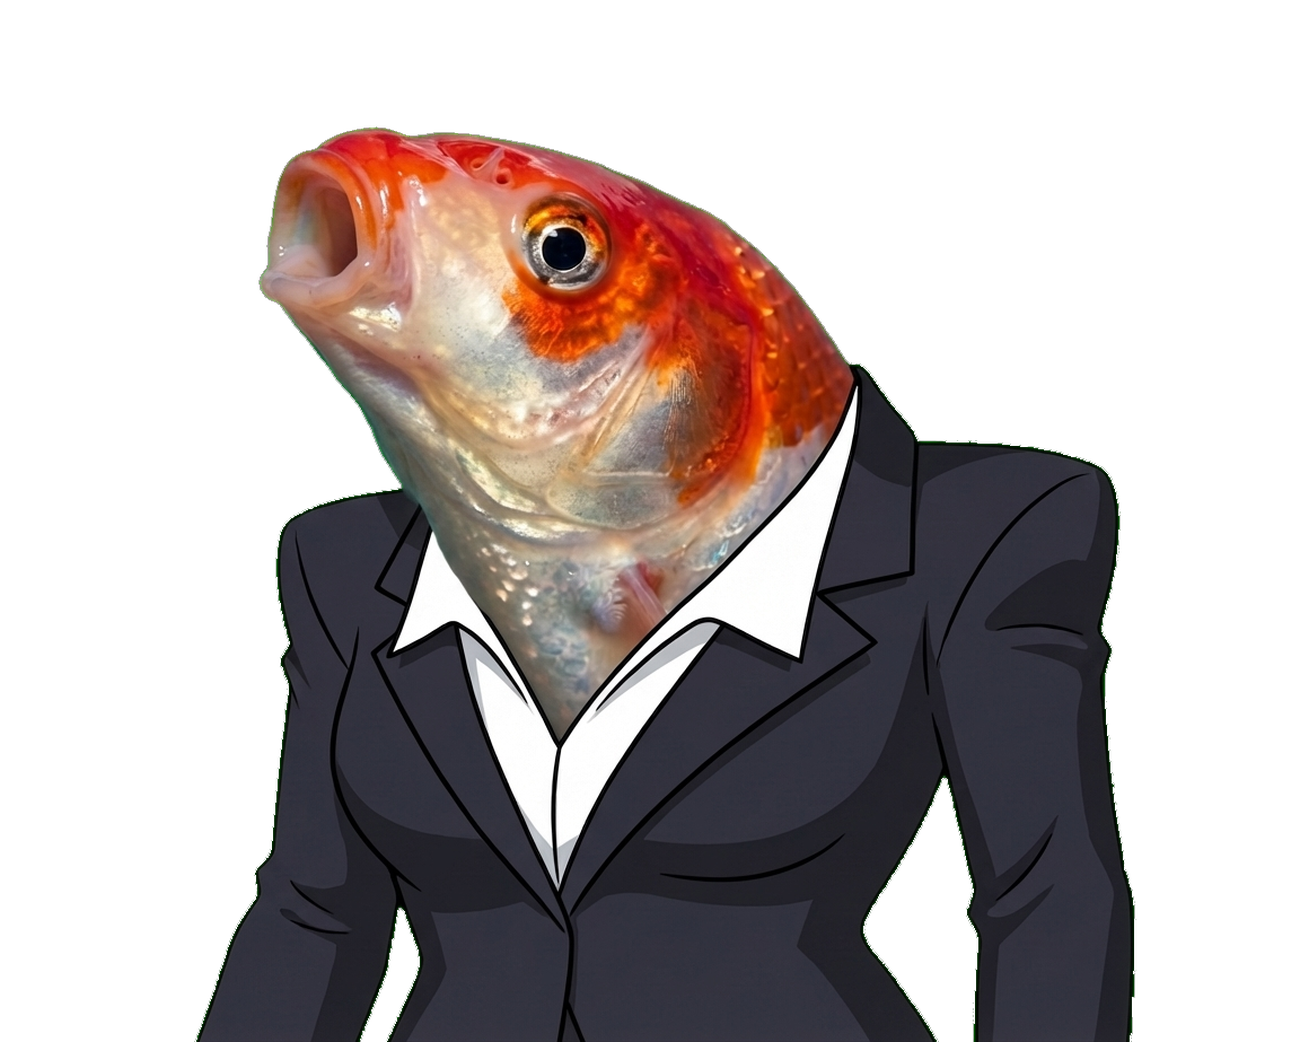
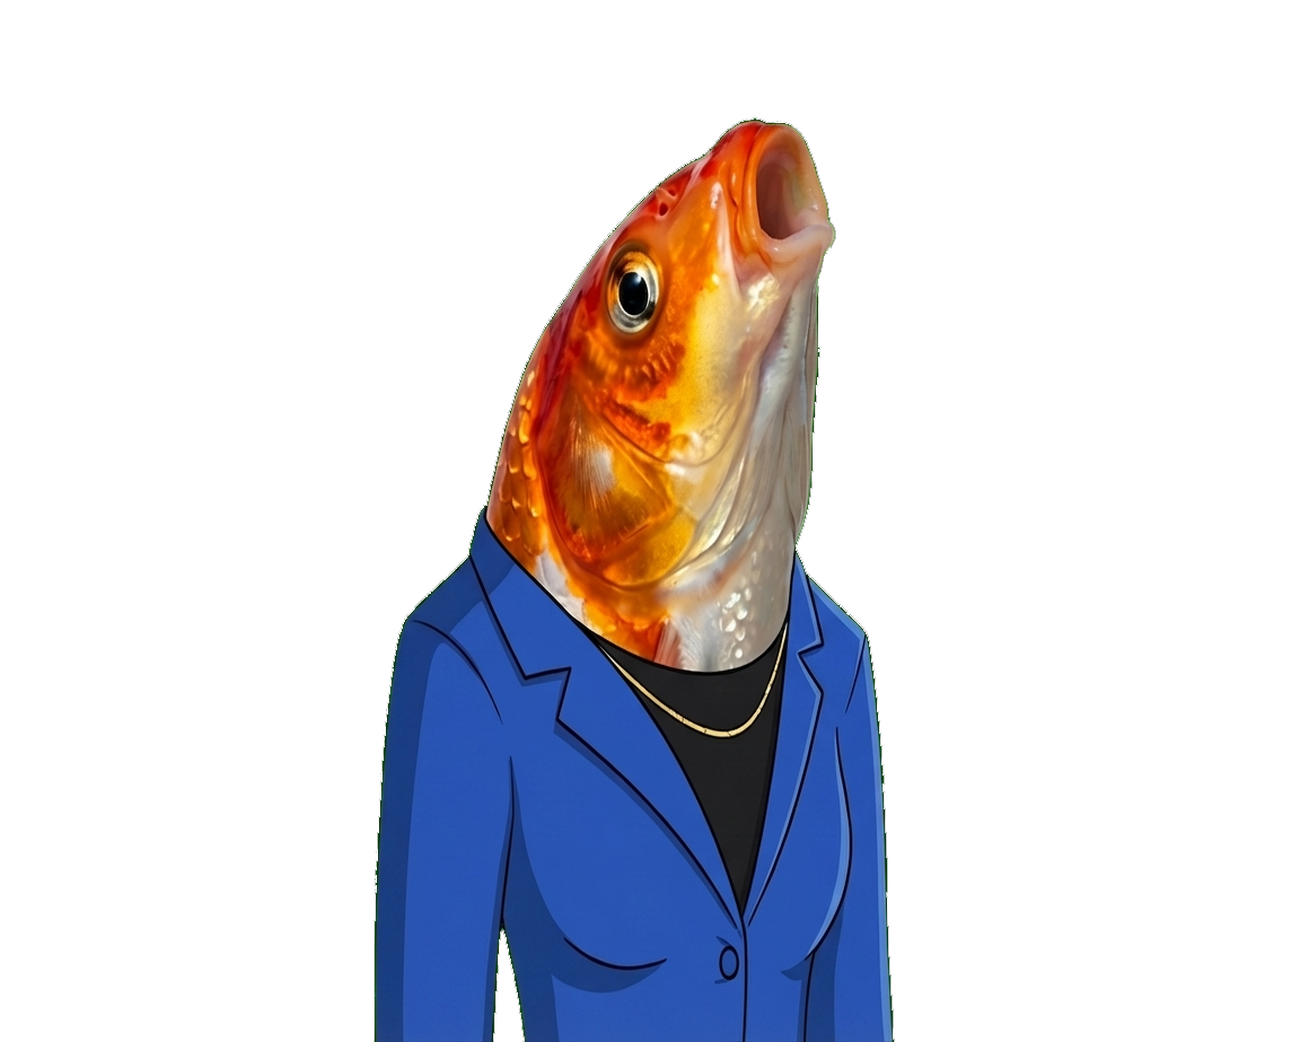
Redesign koi anchor: vibrant fish head, compact proportions, direction consistency
- Overhaul BASE_PROMPT: big head (55-60% height), short bust-only body,
  vibrant golden-orange koi coloring, cobalt blue blazer, side profile
  facing left with mouth pointing up
- Add _ensure_consistent_direction() post-processing to detect and flip
  frames where Gemini reverses the fish facing direction
- Add _find_eye_side() helper using darkest-pixel clustering to determine
  which side the eye is on for each frame
- Use @PufferNews screenshot as Gemini reference image for proportions
- Strengthen frame-chaining instructions to prevent direction drift
- Regenerate all 6 mouth frames with new design
- Update AGENTS.md with settled character design details

Made-with: Cursor

diff --git a/scripts/generate_pufferfish_anchor.py b/scripts/generate_pufferfish_anchor.py
@@ -35,30 +35,42 @@ MOUTH_STATES = {
 }
 
 BASE_PROMPT = (
-    "A SINGLE koi fish (錦鯉) news anchor character shown from a 3/4 SIDE "
-    "PROFILE VIEW — facing LEFT, head angled slightly UPWARD with confident "
-    "poise, like a classic TV news anchor. NOT front-facing, NOT head-on. "
-    "The composition matches the SpongeBob 'Realistic Fish Head' news anchor "
-    "framing: 3/4 profile, one eye visible, head tilted up with authority. "
-    "The mouth is on the SIDE of the face and opens outward to the LEFT — "
-    "the jaw drops DOWN and OUT in profile, like a fish opening its mouth "
-    "naturally when seen from the side. "
+    "Generate ONLY a SINGLE koi fish (錦鯉) news anchor character — do NOT "
+    "include the reference image in the output, do NOT place two figures "
+    "side by side. Output ONE character CENTERED in the frame. "
+    "The fish head is shown in SIDE PROFILE — only ONE eye visible, facing "
+    "LEFT. The head is tilted FAR BACK so the mouth points STRAIGHT UP "
+    "toward the ceiling / sky — like a fish looking directly upward. The "
+    "mouth is at the VERY TOP of the composition. This exaggerated upward "
+    "tilt gives the character a deadpan serious-but-absurd news anchor vibe. "
+    "PROPORTIONS — THIS IS CRITICAL: The fish HEAD is HUGE — it takes up "
+    "55-60% of the total character height. The body below is VERY SHORT — "
+    "ONLY the shoulders and upper chest are visible, like a bust or a "
+    "news anchor behind a desk. Do NOT draw the waist, hips, or lower "
+    "torso. The body is just a SHORT WIDE STUMP of shoulders + upper chest. "
+    "The shoulders are BROAD, filling about 55-60% of the frame width. The overall "
+    "silhouette is TOP-HEAVY and COMPACT — a big lively fish head sitting "
+    "on a short squat pair of broad shoulders. Think of the SpongeBob "
+    "'Realistic Fish Head' news anchor proportions. "
     "CRITICAL — the koi fish HEAD must look like a REAL PHOTOGRAPH of a "
-    "living koi fish. PHOTOREALISTIC, not illustrated, not painterly, not "
-    "digital art. Render the head as if shot with a macro lens: real wet "
-    "skin texture, real iridescent scales with light reflections, a real "
-    "glossy fish eye with depth and specular highlight, visible pores and "
-    "fine detail on the skin. The coloring is vivid red-orange and white "
-    "with natural gradients between the patches. Think National Geographic "
-    "close-up photo of a koi fish, not a painting or illustration of one. "
-    "NO makeup, NO blush, NO eyelashes, NO jewelry — the femininity comes "
-    "entirely from the SUIT silhouette and the confident upward pose. "
-    "The SUIT is 2D flat cartoon style — a sharp, structured POWER BLAZER "
-    "in deep charcoal or dark navy. The blazer has STRONG PADDED SHOULDERS, "
-    "a nipped waist, and sharp peaked lapels — a commanding boardroom / CNN "
-    "anchor silhouette. Underneath is a crisp white silk blouse with an "
-    "open neckline — NO necktie, NO bowtie. The open collar conveys "
-    "confident authority. This is a female power-boss look. "
+    "GORGEOUS, VIBRANT, SHOW-QUALITY koi fish. PHOTOREALISTIC, not "
+    "illustrated, not painterly, not digital art. The coloring must be "
+    "RICH and SATURATED — deep warm GOLDEN-ORANGE and fiery RED-ORANGE "
+    "patches with clean bright PEARL-WHITE areas. NOT pale, NOT washed "
+    "out, NOT pinkish-grey. The orange should POP — think a prize-winning "
+    "Kohaku koi in crystal-clear water under sunlight. The scales should "
+    "SHIMMER with iridescent light reflections. The eye must look BRIGHT, "
+    "ALERT, and full of LIFE — a glossy jet-black pupil with a sharp "
+    "specular highlight, giving the fish PERSONALITY and charm. The skin "
+    "has a healthy wet SHEEN. Overall the fish should look ALIVE, VIBRANT, "
+    "and BEAUTIFUL — the kind of fish that makes people stop scrolling. "
+    "NO makeup, NO blush, NO eyelashes, NO humanization — just a "
+    "stunningly beautiful living koi. "
+    "The OUTFIT is 2D flat cartoon style — a modern WOMEN'S fitted blazer "
+    "in COBALT BLUE (vivid saturated blue, NOT grey, NOT muted). The blazer "
+    "is sleek and contemporary: clean lines, slim fit, single-button closure, "
+    "structured but NOT boxy. Underneath is a simple black round-neck top. "
+    "A thin delicate gold chain necklace adds a modern feminine accent. "
     "Drawn with solid flat colors, clean outlines, and minimal shading. "
     "NO fabric texture, NO realistic folds, NO painterly brushwork on the suit "
     "— just clean, simple, flat 2D shapes with solid colors. "
@@ -67,15 +79,45 @@ BASE_PROMPT = (
     "styles together. "
     "The background MUST be a single solid bright green (#00FF00) color — "
     "NO checkerboard, NO gradient, NO pattern, just pure flat green. "
-    "IMPORTANT: ONE character only, 3/4 SIDE PROFILE facing LEFT. Keep the "
-    "body, suit, eyes, and overall composition IDENTICAL across all frames — "
-    "only the mouth opening on the SIDE changes."
+    "IMPORTANT: ONE character ONLY, CENTERED, BIG HEAD on SHORT WIDE body, "
+    "side-profile fish head with mouth UP, ALWAYS facing LEFT (eye on the "
+    "RIGHT side of the image). The fish must face the SAME direction in "
+    "EVERY frame — NEVER mirror or flip. Keep the body, suit, and overall "
+    "composition IDENTICAL across all frames — only the mouth opening changes."
 )
 
 
 def _load_image_bytes(path: Path) -> bytes:
     with open(path, "rb") as f:
         return f.read()
+
+
+def _crop_right_subject(img: Image.Image) -> Image.Image:
+    """Remove reference-image bleed on the left if present, then center the subject.
+
+    Only crops the left portion if it detects a non-green-screen region there
+    (the Gemini reference photo leak). If the left side is clean green-screen,
+    the full image is preserved so we don't cut off the character's shoulders.
+    """
+    import numpy as np
+
+    arr = np.array(img.convert("RGBA"))
+    h, w = arr.shape[:2]
+    r, g, b = arr[:, :, 0].astype(float), arr[:, :, 1].astype(float), arr[:, :, 2].astype(float)
+
+    green_bg = (g > 180) & (r < 180) & (b < 180) & (g > r + 30) & (g > b + 30)
+
+    left_strip = green_bg[:, :int(w * 0.15)]
+    left_green_ratio = left_strip.sum() / max(left_strip.size, 1)
+
+    if left_green_ratio < 0.4:
+        crop_x = int(w * 0.35)
+        print(f"    Detected reference bleed on left ({left_green_ratio:.0%} green), cropping left {crop_x}px")
+        arr = arr[:, crop_x:]
+    else:
+        print(f"    Left side is clean green-screen ({left_green_ratio:.0%} green), no crop needed")
+
+    return Image.fromarray(arr, "RGBA")
 
 
 def _remove_green_screen(img: Image.Image, tolerance: int = 80) -> Image.Image:
@@ -121,6 +163,63 @@ def _make_reference_part(img_bytes: bytes, mime: str = "image/png") -> types.Par
     return types.Part.from_bytes(data=img_bytes, mime_type=mime)
 
 
+def _find_eye_side(img: Image.Image) -> str:
+    """Determine which side of the image the fish eye is on.
+
+    Looks for the darkest pixel cluster in the upper 60% of the image
+    (where the head is). Returns 'left' or 'right'.
+    """
+    import numpy as np
+
+    arr = np.array(img.convert("RGBA"))
+    h, w = arr.shape[:2]
+    upper = arr[:int(h * 0.6), :, :]
+
+    alpha = upper[:, :, 3]
+    has_content = alpha > 30
+
+    r, g, b = upper[:, :, 0].astype(float), upper[:, :, 1].astype(float), upper[:, :, 2].astype(float)
+    darkness = 255 * 3 - (r + g + b)
+    darkness[~has_content] = 0
+
+    threshold = np.percentile(darkness[has_content], 95) if has_content.any() else 500
+    dark_pixels = (darkness >= threshold) & has_content
+
+    if not dark_pixels.any():
+        return "left"
+
+    dark_xs = np.where(dark_pixels)[1]
+    content_xs = np.where(has_content)[1]
+    if len(content_xs) == 0:
+        return "left"
+
+    content_center = (content_xs.min() + content_xs.max()) / 2
+    avg_dark_x = dark_xs.mean()
+
+    return "left" if avg_dark_x < content_center else "right"
+
+
+def _ensure_consistent_direction(frames: dict[int, Image.Image]) -> dict[int, Image.Image]:
+    """Flip any frames whose eye is on the opposite side from mouth_0."""
+    if 0 not in frames:
+        return frames
+
+    ref_side = _find_eye_side(frames[0])
+    print(f"\n  mouth_0 eye detected on: {ref_side}")
+
+    for idx in sorted(frames.keys()):
+        if idx == 0:
+            continue
+        side = _find_eye_side(frames[idx])
+        if side != ref_side:
+            print(f"  mouth_{idx} eye on {side} (expected {ref_side}) — flipping horizontally")
+            frames[idx] = frames[idx].transpose(Image.FLIP_LEFT_RIGHT)
+        else:
+            print(f"  mouth_{idx} eye on {side} — consistent, no flip needed")
+
+    return frames
+
+
 def backup_existing_assets():
     """Copy current mouth frames to a backup directory."""
     if BACKUP_DIR.exists():
@@ -144,7 +243,7 @@ def generate_mouth_frames():
 
     client = genai.Client(api_key=api_key)
 
-    ref_fish_bytes = _load_image_bytes(MOUTH_DIR / "mouth_backup_fish" / "mouth_0.png")
+    ref_fish_bytes = _load_image_bytes(Path(__file__).parent / "puffernews_reference.png")
     ref_fish_part = _make_reference_part(ref_fish_bytes)
 
     generated_frames: dict[int, Image.Image] = {}
@@ -161,7 +260,7 @@ def generate_mouth_frames():
 
         content_parts.append(
             types.Part.from_text(
-                text="Reference image (original fish anchor — match this 3/4 SIDE PROFILE pose and news-anchor framing but use a KOI FISH with a female power-boss suit):"
+                text="Reference image for PROPORTIONS and STYLE ONLY — match this character's BIG HEAD, SHORT WIDE BODY proportions and vibrant fish coloring. Generate a NEW koi fish character with cobalt blue blazer, side-profile head with mouth pointing UP. Do NOT copy the background, desk, or text from this reference:"
             )
         )
         content_parts.append(ref_fish_part)
@@ -172,7 +271,7 @@ def generate_mouth_frames():
             mouth0_bytes = mouth0_buf.getvalue()
             content_parts.append(
                 types.Part.from_text(
-                    text="Generated koi fish mouth_0 (closed, side profile) — keep the character IDENTICAL, only change the mouth opening on the side:"
+                    text="This is mouth_0 (closed). Generate the EXACT SAME character facing the EXACT SAME direction (LEFT) with the IDENTICAL body, suit, and pose — ONLY change the mouth opening. Do NOT mirror or flip the character:"
                 )
             )
             content_parts.append(_make_reference_part(mouth0_bytes))
@@ -207,7 +306,8 @@ def generate_mouth_frames():
             print(f"  ERROR: Failed to generate mouth_{mouth_idx} after retry. Skipping.")
             continue
 
-        print(f"  Removing green-screen background...")
+        print(f"  Cropping right subject & removing green-screen...")
+        img = _crop_right_subject(img)
         img = _remove_green_screen(img)
         img_resized = img.resize(TARGET_SIZE, Image.LANCZOS)
         generated_frames[mouth_idx] = img_resized
@@ -217,6 +317,15 @@ def generate_mouth_frames():
         print(f"  Saved {out_path} ({img_resized.size})")
 
     print(f"\nGeneration complete. {len(generated_frames)}/{NUM_MOUTH_STATES} frames generated.")
+
+    print("\nStep 3: Ensuring consistent facing direction...")
+    generated_frames = _ensure_consistent_direction(generated_frames)
+
+    for idx, img in generated_frames.items():
+        out_path = MOUTH_DIR / f"mouth_{idx}.png"
+        img.save(out_path, "PNG")
+        print(f"  Saved {out_path} (direction-corrected)")
+
     if len(generated_frames) < NUM_MOUTH_STATES:
         missing = [i for i in range(NUM_MOUTH_STATES) if i not in generated_frames]
         print(f"  Missing frames: {missing}")

diff --git a/AGENTS.md b/AGENTS.md
@@ -1,7 +1,7 @@
 ## Learned User Preferences
 
 - Prefers single static article image per video -- no cycling or hard-cut image transitions
-- Wants hyper-realistic / photorealistic character rendering with transparent backgrounds (not cartoon or stylized); clothes are 2D flat cartoon style with clean outlines; uses Gemini (`gemini-3-pro-image-preview`) via `GEMINI_API_KEY` with green-screen workaround (`#00FF00` bg + chroma-key removal) since Gemini cannot output true alpha
+- Wants hyper-realistic / photorealistic character rendering with transparent backgrounds (not cartoon or stylized); fish head should look like a beautiful prize-winning koi (luminous scales, vivid colors, glossy eye) -- natural fish beauty only, NO humanized features (no makeup, no eyelashes, no blush); clothes are 2D flat cartoon style with clean outlines; uses Gemini (`gemini-3-pro-image-preview`) via `GEMINI_API_KEY` with green-screen workaround (`#00FF00` bg + chroma-key removal) since Gemini cannot output true alpha
 - Iterates on voice and visual assets before committing; expects rapid regeneration cycles with blunt feedback and course-correction
 - For local testing, prefers standalone scripts that skip Supabase and output files directly to the repo root
 - Plans should be presented before implementation; confirm before executing
@@ -18,8 +18,8 @@
 - Pipeline flow: World Journal scraper -> Claude script generation -> ElevenLabs TTS -> jieba caption alignment -> Remotion 4 video render -> Metricool publish to TikTok, Instagram Reels, and YouTube Shorts
 - Content language is Traditional Mandarin Chinese (zh-TW), targeting overseas Chinese / Taiwanese audience
 - GitHub repo: `EliotChang/KhoiNews` (private); GitHub username `EliotChang`
-- Anchor character is a koi fish (錦鯉), upright SpongeBob-style orientation facing camera head-on with mouth at top; on-screen handle is `@NewsCarp`; old pufferfish assets backed up to `mouth_backup_fish/`, previous v2 to `mouth_backup_v2/`
-- Video template uses a layered composite: 2 mouth PNGs (mouth_0=closed, mouth_1=open) + desk overlay + randomly selected background; Remotion renders each frame independently in parallel during SSR -- all animation/lip-sync logic must be purely stateless (no `useRef` for cross-frame accumulation; it silently resets every frame)
+- Anchor character is a koi fish (錦鯉) in SIDE PROFILE (one eye visible, facing left, mouth pointing straight up) with @PufferNews-style proportions: massive head (~55-60% of character height), short stocky bust-only body (broad shoulders + upper chest, no waist/hips); on-screen handle is `@NewsCarp`; outfit is cobalt blue fitted feminine blazer (2D flat cartoon), black round-neck top, thin gold chain necklace; old pufferfish assets backed up to `mouth_backup_fish/`, previous v2 to `mouth_backup_v2/`
+- Video template uses a layered composite: 2 mouth PNGs (mouth_0=closed, mouth_1=open) + desk overlay + randomly selected background; Remotion renders each frame independently in parallel during SSR -- all animation/lip-sync logic must be purely stateless (no `useRef` for cross-frame accumulation; it silently resets every frame); Remotion caches bundled assets in `/var/folders/.../T/remotion-*` -- must clear this cache between asset regeneration cycles or stale assets will appear in renders
 - ElevenLabs TTS provides character-level alignment data (via `/with-timestamps` endpoint); Chinese characters have zero gaps between consecutive characters -- only punctuation creates measurable pauses; the endpoint can silently fall back to standard TTS (no alignment), so downstream code must log and handle missing data
 - Mouth timing pipeline: ElevenLabs TTS -> `voice_gen.py` (alignment payload) -> `video_gen.py` (`_build_mouth_cues_from_alignment`) -> Remotion `mouthCues` prop -> `FishLipSync.tsx`; each Chinese character = one syllable (~200-400ms) requiring per-character open/close cycles; tuned constants: open ratio 0.55, merge gap <40ms, min hold 50ms, min open 60ms; binary search for cue lookup; current voice: Anna Su / Trustworthy (`r6qgCCGI7RWKXCagm158`), Taiwanese Mandarin female
 - Node 20 is required for Remotion renders; `npx`/`npm` resolved via nvm or env vars; Remotion intermediate frames use PNG (not JPEG) for transparency fidelity; Supabase handles DB and storage; all secrets loaded from `.env` in the project root
